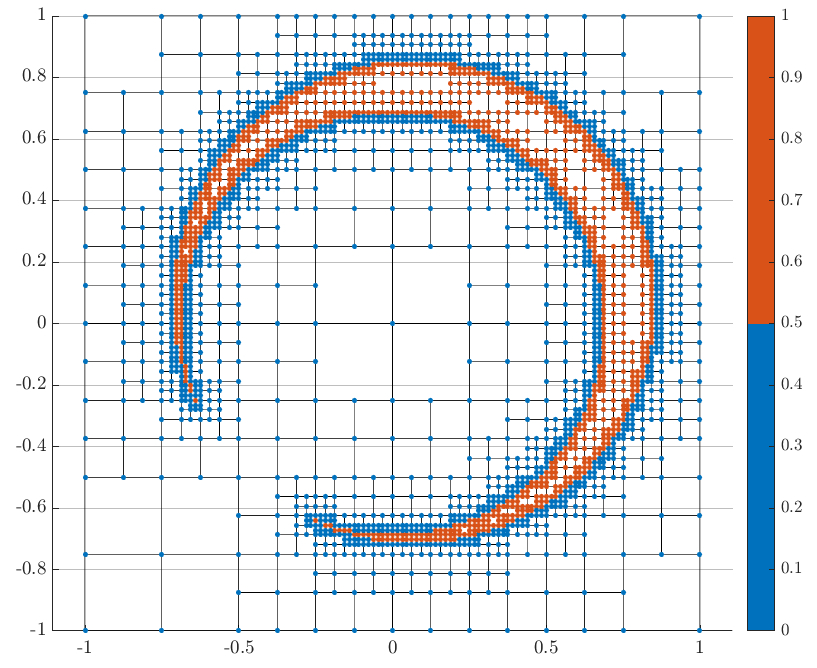
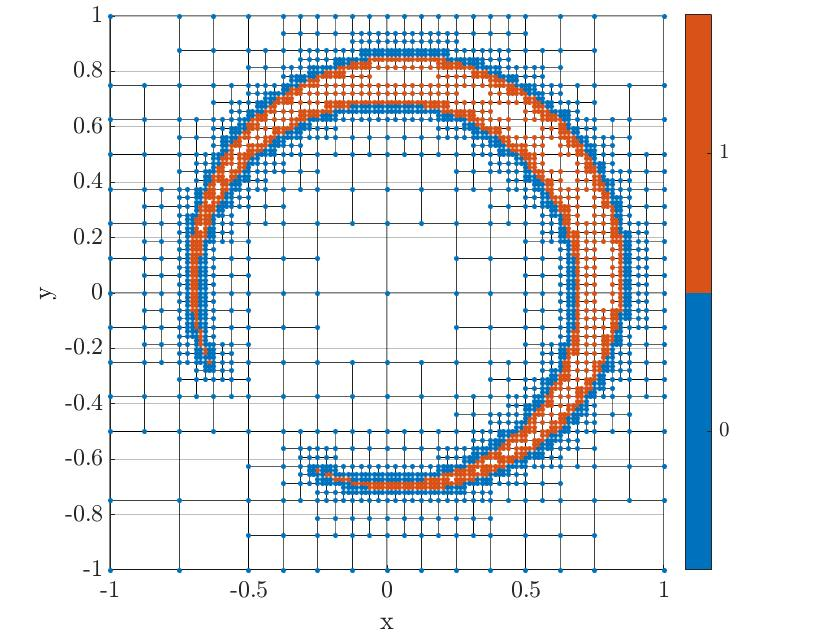
fixing error message; update toy problem; update demo image

diff --git a/meshToyProblem.m b/meshToyProblem.m
@@ -26,7 +26,6 @@ colors = lines(length(unique(meshData.metric)));
 
 hFig = figure(); hold on;
 colormap(colors);
-colorbar;
 
 keys = fieldnames(mapMesh.cellMap);
 for c = 1:length(keys)
@@ -42,11 +41,15 @@ scatter(meshData.pos(:,1), meshData.pos(:,2), 16, meshData.metric, 'filled');
 hold off; grid on; axis equal;
 xlabel('x');
 ylabel('y');
+hcb = colorbar;
+caxis([-0.5, 1.5]);
+set(hcb, 'ticks', [0, 1]);
 
 %% Plot the mesh as an image
 figure();
 colormap(colors);
 hcb = colorbar;
+caxis([-0.5, 1.5]);
 [xData, yData, CData] = mapMesh.toImage();
 image(xData, yData, CData, 'CDataMapping', 'scaled');
 axis equal;

diff --git a/+adaptiveMesh/Cell.m b/+adaptiveMesh/Cell.m
@@ -163,7 +163,7 @@ classdef Cell < handle & matlab.mixin.Copyable
             if(nargin < 3)
                 bCueNeighbors = false;
             elseif(~islogical(bCueNeighbors))
-                error('bNeighborCatalyst must be logical (a boolean)');
+                error('bCueNeighbors must be logical (a boolean)');
             end
             
             if(this.size(1)/2 > this.minSize(1) &&...
